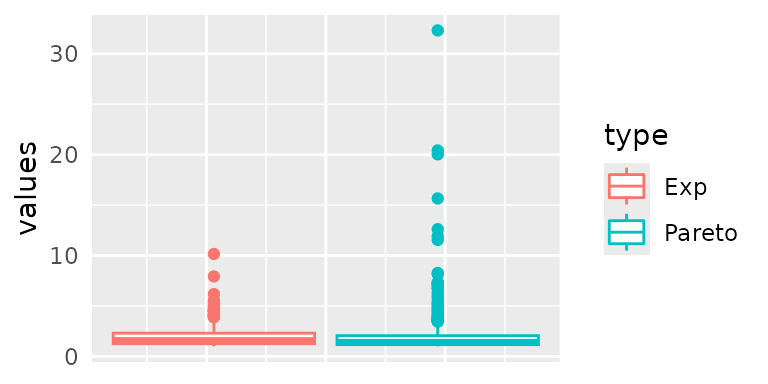
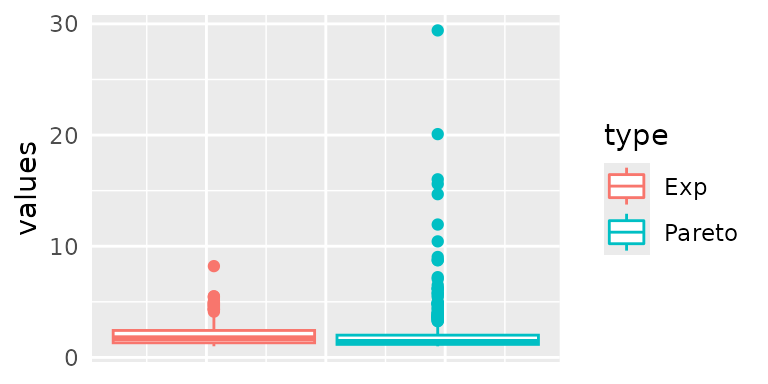
Deploying to gh-pages from @ GBuritica/tsExtremes@cb913c2be7b2392963cf8164e4d514b625f0b740 🚀

diff --git a/articles/Example-Analysis.html b/articles/Example-Analysis.html
@@ -165,6 +165,7 @@ consider the following samples, and its respective boxplot.</p>
 <div class="sourceCode" id="cb1"><pre class="downlit sourceCode r">
 <code class="sourceCode R"><span><span class="kw"><a href="https://rdrr.io/r/base/library.html" class="external-link">library</a></span><span class="op">(</span><span class="va"><a href="https://www.stat.auckland.ac.nz/~yee/VGAM/" class="external-link">VGAM</a></span><span class="op">)</span></span>
 <span><span class="kw"><a href="https://rdrr.io/r/base/library.html" class="external-link">library</a></span><span class="op">(</span><span class="va"><a href="https://ggplot2.tidyverse.org" class="external-link">ggplot2</a></span><span class="op">)</span></span>
+<span><span class="fu"><a href="https://rdrr.io/r/base/Random.html" class="external-link">set.seed</a></span><span class="op">(</span><span class="fl">123</span><span class="op">)</span></span>
 <span><span class="va">n</span>     <span class="op">&lt;-</span> <span class="fl">500</span></span>
 <span><span class="va">alpha</span> <span class="op">&lt;-</span> <span class="fl">2</span></span>
 <span><span class="va">sample_exponential</span> <span class="op">&lt;-</span> <span class="fl">1</span> <span class="op">+</span> <span class="fu"><a href="https://rdrr.io/r/stats/Exponential.html" class="external-link">rexp</a></span><span class="op">(</span><span class="va">n</span><span class="op">)</span></span>
@@ -194,6 +195,33 @@ we refer to <span class="citation">(Bingham, Goldie, and Teugels
 tail-index from data. We consider a sample of observations <span class="math inline">\(X_1, \dots, X_n\)</span> with the same
 distribution of <span class="math inline">\(X\)</span>, and not
 necessarily independent.</p>
+<div class="section level4">
+<h4 id="motivation">Motivation<a class="anchor" aria-label="anchor" href="#motivation"></a>
+</h4>
+<p>To motivate the Hill estimator, note that when <span class="math inline">\(P\)</span> follows the Pareto distribution with
+tail index <span class="math inline">\(\alpha\)</span>, then <span class="math inline">\(\mathbb{P}(Y &gt; x) = 1 -x^{-\alpha}\)</span>,
+and then straightforward calculations imply <span class="math display">\[E[\log(P)] = \frac{1}{\alpha}.\]</span> In all
+generality, when <span class="math inline">\(X\)</span> is regularly
+varying, then for all <span class="math inline">\(x &gt; 1\)</span>,
+<span class="math display">\[
+\lim_{t \to \infty}\mathbb{P}(X/t &gt; x \mid X &gt; t) = \lim_{t \to
+\infty} {\overline F(tx)}/{\overline F(t) } = x^{-\alpha}.
+\]</span> where the last equality follows by the definition of regularly
+varying random variables. We can interpret this equation to say that the
+renormalized sample exceeded amount follows asymptotically a Pareto
+distribution. In this sense <span class="math display">\[\mathbb{E}[
+\log(X/t) | X &gt; t] \approx \frac{1}{\alpha}, \qquad t \to \infty.
+\]</span> Finally, replacing the right-hand side in the previous
+relation with its empirical counterpart yields <span class="math display">\[
+\frac{ \sum_{j=1}^n \log(X_j/t)1(X_j &gt; t)}{\sum_{j=1}^n 1(X_j&gt; t)}
+\approx \frac{1}{\alpha}, \qquad t \to \infty.
+\]</span></p>
+<p>Here the value of <span class="math inline">\(t\)</span> is a high
+threshold of the sample. In our case, we replace <span class="math inline">\(t\)</span> by an order statistic of the sample. If
+<span class="math inline">\(X_{(1)} \geq X_{(2)} \geq \cdots \geq
+X_{(n)}\)</span> are the sorted sample values, then we see that letting
+<span class="math inline">\(t = X_{(k^\prime+1)}\)</span> is the
+previous expression we obtain the Hill estimator</p>
 <p class="comment">
 <strong>Hill estimator.</strong> The Hill estimator is a general
 procedure to estimate the tail-index of <span class="math inline">\(X\)</span>, and it is given by <span class="math display">\[
@@ -206,37 +234,83 @@ Hill estimator.
 </p>
 <p>
 </p>
-<p>When the temporal dependence is not very strong, think for example in
-a stationary AR(1) series: <span class="math inline">\((X_t = \rho
-X_{t-1} + Z_{t})\)</span>, for <span class="math inline">\(|\rho| &lt;
+<p>We see from the previous expression that the assumption of regular
+variation means that the top records from the sample: <span class="math inline">\(X_{(1)} \geq \cdots \geq X_{(k^\prime)}\)</span>,
+resemble a sample from a Pareto distribution with tail-index <span class="math inline">\(\alpha &gt; 0\)</span>.</p>
+<p>Finally, the Hill estimator yields consistent estimates of the
+tail-index of <span class="math inline">\(X\)</span> even when the
+temporal dependence is not very strong, think for example in a
+stationary AR(1) series: <span class="math inline">\(X_t = \rho X_{t-1}
++ Z_{t}\)</span>, for <span class="math inline">\(|\rho| &lt;
 1\)</span>, and <span class="math inline">\((\mathbb{Z})\)</span> a
-series of iid regularly varying innovations, the Hill estimator yields
-consistent estimates of the tail-index of <span class="math inline">\(X\)</span>. We refer to Chapter 4 in <span class="citation">(Beirlant et al. 2004)</span> for a detailed treatment
-of tail-index inference.</p>
-<p>To motivate the Hill estimator, note that if <span class="math inline">\(X\)</span> follows the Pareto distribution with
-tail index <span class="math inline">\(\alpha\)</span>, then <span class="math inline">\(F(t) = 1 -x^{-\alpha}\)</span>, and then
-straightforward calculations imply <span class="math inline">\(E[\log(X)] = 1/\alpha\)</span>. In all generality,
-the renormalized largest records of the sample follow asymptotically a
-Pareto distribution by means of the Pickands-Balkdema de Haan Theorem
-also called ‘Peaks over Thresholds’ Theorem. This means, that if we
-restrict our sample to the <span class="math inline">\(k^\prime\)</span>
-largest records, then we see how the Hill estimator is a good candidate
-to estimate tail-index. We refer in all generality to Chapter 4 in <span class="citation">(Beirlant et al. 2004)</span>.</p>
+series of iid regularly varying innovations. We refer to Chapter 4 in
+<span class="citation">(Beirlant et al. 2004)</span> for a detailed
+treatment of tail-index inference.</p>
+</div>
+<div class="section level4">
+<h4 id="bias-variance-trade-off">Bias-Variance trade-off<a class="anchor" aria-label="anchor" href="#bias-variance-trade-off"></a>
+</h4>
+<p>The Hill estimator requires the tuning parameter <span class="math inline">\(k^\prime\)</span> in its implementation, and this
+choice highlights the classical bias-variance trade-off in extreme value
+statistics. Larger values of <span class="math inline">\(k^\prime\)</span> mean that when we average a
+larger number of sample records to compute the Hill estimate, which
+typically translates in a variance reduction for this statistical
+procedure. Nevertheless, to obtain unbiased estimates of the tail-index
+it is important that our top records: <span class="math inline">\(X_{(1)} \geq \cdots \geq X_{(k^\prime)}\)</span>
+nicely resemble a sample from a Pareto distribution with tail-index
+<span class="math inline">\(\alpha\)</span>. However, in all generality
+this is only granted in many cases if <span class="math inline">\(k^\prime = k_n^\prime\)</span> is rather small
+compared to <span class="math inline">\(n\)</span>, which means we can
+only focus on the top records.</p>
+<p><strong>qq-plot</strong> : To illustrate the bias-variance trade-off,
+let’s take again <span class="math inline">\(P\)</span> to be a Pareto
+distribution. Moreover notice that for all <span class="math inline">\(p
+\in (0,1)\)</span>, the quantiles of <span class="math inline">\(\log
+P\)</span> can be computed noticing <span class="math inline">\(\mathbb{P}(\log(P) &gt;  - \log(p)/\alpha ) =
+\mathbb{P}(P &gt; p^{-1/\alpha} ) = p.\)</span> This equation
+demonstrates that the qq-plot of sample from <span class="math inline">\(\log(P)\)</span> is given by the points <span class="math display">\[ (\log(P_{(k)}),-\log(1-k/n)/\alpha),\]</span>
+where again recall the notation <span class="math inline">\(P_{(1)} \geq
+\cdots P_{(n)}\)</span>. Instead, for a general regularly varying
+variables <span class="math inline">\(X\)</span>, when we plot <span class="math inline">\((\log(X_{(k)}),-\log(1-k/n)/\alpha))\)</span>,
+then only the highest records of the sample should align with the
+quantiles of <span class="math inline">\(\log P\)</span>.</p>
+<div class="sourceCode" id="cb2"><pre class="downlit sourceCode r">
+<code class="sourceCode R"><span><span class="kw"><a href="https://rdrr.io/r/base/library.html" class="external-link">library</a></span><span class="op">(</span><span class="va"><a href="https://rpkgs.datanovia.com/ggpubr/" class="external-link">ggpubr</a></span><span class="op">)</span></span>
+<span><span class="va">sample_frechet</span>     <span class="op">&lt;-</span> <span class="fu"><a href="https://rdrr.io/pkg/VGAM/man/frechetUC.html" class="external-link">rfrechet</a></span><span class="op">(</span><span class="va">n</span>, shape <span class="op">=</span> <span class="va">alpha</span><span class="op">)</span></span>
+<span><span class="va">sample_pareto</span>      <span class="op">&lt;-</span> <span class="fu">VGAM</span><span class="fu">::</span><span class="fu"><a href="https://rdrr.io/pkg/VGAM/man/ParetoUC.html" class="external-link">rpareto</a></span><span class="op">(</span><span class="va">n</span>, shape<span class="op">=</span><span class="va">alpha</span><span class="op">)</span></span>
+<span><span class="va">df</span> <span class="op">&lt;-</span> <span class="fu"><a href="https://rdrr.io/r/base/data.frame.html" class="external-link">data.frame</a></span><span class="op">(</span><span class="st">'log_frechet'</span> <span class="op">=</span> <span class="fu"><a href="https://rdrr.io/r/base/Log.html" class="external-link">log</a></span><span class="op">(</span><span class="fu"><a href="https://rdrr.io/r/base/sort.html" class="external-link">sort</a></span><span class="op">(</span><span class="va">sample_frechet</span><span class="op">)</span><span class="op">)</span>, </span>
+<span>                  <span class="st">'log_pareto'</span> <span class="op">=</span> <span class="fu"><a href="https://rdrr.io/r/base/Log.html" class="external-link">log</a></span><span class="op">(</span><span class="fu"><a href="https://rdrr.io/r/base/sort.html" class="external-link">sort</a></span><span class="op">(</span><span class="va">sample_pareto</span><span class="op">)</span><span class="op">)</span><span class="op">)</span></span>
+<span><span class="va">g1</span> <span class="op">&lt;-</span> <span class="fu"><a href="https://ggplot2.tidyverse.org/reference/ggplot.html" class="external-link">ggplot</a></span><span class="op">(</span><span class="va">df</span><span class="op">)</span> <span class="op">+</span> <span class="fu"><a href="https://ggplot2.tidyverse.org/reference/geom_point.html" class="external-link">geom_point</a></span><span class="op">(</span><span class="fu"><a href="https://ggplot2.tidyverse.org/reference/aes.html" class="external-link">aes</a></span><span class="op">(</span> y <span class="op">=</span> <span class="op">-</span><span class="fu"><a href="https://rdrr.io/r/base/Log.html" class="external-link">log</a></span><span class="op">(</span><span class="fl">1</span><span class="op">-</span><span class="fl">1</span><span class="op">:</span><span class="va">n</span><span class="op">/</span><span class="va">n</span><span class="op">)</span><span class="op">/</span><span class="va">alpha</span>, x <span class="op">=</span> <span class="va">log_pareto</span> <span class="op">)</span><span class="op">)</span> <span class="op">+</span> <span class="fu"><a href="https://ggplot2.tidyverse.org/reference/geom_abline.html" class="external-link">geom_abline</a></span><span class="op">(</span>slope<span class="op">=</span><span class="fl">1</span><span class="op">)</span></span>
+<span><span class="va">g2</span> <span class="op">&lt;-</span> <span class="fu"><a href="https://ggplot2.tidyverse.org/reference/ggplot.html" class="external-link">ggplot</a></span><span class="op">(</span><span class="va">df</span><span class="op">)</span> <span class="op">+</span> <span class="fu"><a href="https://ggplot2.tidyverse.org/reference/geom_point.html" class="external-link">geom_point</a></span><span class="op">(</span><span class="fu"><a href="https://ggplot2.tidyverse.org/reference/aes.html" class="external-link">aes</a></span><span class="op">(</span> y <span class="op">=</span> <span class="op">-</span><span class="fu"><a href="https://rdrr.io/r/base/Log.html" class="external-link">log</a></span><span class="op">(</span><span class="fl">1</span><span class="op">-</span><span class="fl">1</span><span class="op">:</span><span class="va">n</span><span class="op">/</span><span class="va">n</span><span class="op">)</span><span class="op">/</span><span class="va">alpha</span>, x <span class="op">=</span> <span class="va">log_frechet</span> <span class="op">)</span><span class="op">)</span> <span class="op">+</span> <span class="fu"><a href="https://ggplot2.tidyverse.org/reference/geom_abline.html" class="external-link">geom_abline</a></span><span class="op">(</span>slope<span class="op">=</span><span class="fl">1</span><span class="op">)</span></span>
+<span><span class="fu"><a href="https://rpkgs.datanovia.com/ggpubr/reference/ggarrange.html" class="external-link">ggarrange</a></span><span class="op">(</span><span class="va">g1</span>,<span class="va">g2</span><span class="op">)</span></span></code></pre></div>
+<p><img src="Example-Analysis_files/figure-html/qqplot-1.png" width="576" style="display: block; margin: auto;"></p>
+<p>Finally, as expected we can see from the plot above that when <span class="math inline">\(X\)</span> follows the Fréchet distributions, then
+only the <span class="math inline">\(k^\prime\)</span>-largest sample
+records can be accurately modeled using a Pareto distribution. From this
+plot we take that in this case we need to choose <span class="math inline">\(k^\prime = k_n^\prime\)</span> from the Hill
+estimator rather small compared to <span class="math inline">\(n\)</span> to satisfactorily describe the tail
+properties of the variable <span class="math inline">\(X\)</span>.</p>
+</div>
 </div>
 <div class="section level3">
 <h3 id="tsextremes-package-implementation">tsExtremes package implementation<a class="anchor" aria-label="anchor" href="#tsextremes-package-implementation"></a>
 </h3>
-<p>To implement the Hill estimator with the tsExtremes package, we start
-by loading the <span class="math inline">\(\texttt{tsExtremes}\)</span>
-package.</p>
-<div class="sourceCode" id="cb2"><pre class="downlit sourceCode r">
+<p>We are now ready to use the tsExtremes package to compute Hill
+estimates of the tail-index. We start by loading the <span class="math inline">\(\texttt{tsExtremes}\)</span> package.</p>
+<div class="sourceCode" id="cb3"><pre class="downlit sourceCode r">
 <code class="sourceCode R"><span><span class="kw"><a href="https://rdrr.io/r/base/library.html" class="external-link">library</a></span><span class="op">(</span><span class="va"><a href="https://github.com/GBuritica/tsExtremes" class="external-link">tsExtremes</a></span><span class="op">)</span></span></code></pre></div>
+<div class="sourceCode" id="cb4"><pre class="downlit sourceCode r">
+<code class="sourceCode R"><span><span class="va">h</span> <span class="op">&lt;-</span> <span class="fu"><a href="../reference/hillestimator.html">hillestimator</a></span><span class="op">(</span><span class="va">sample_pareto</span>, plot<span class="op">=</span><span class="cn">T</span> , k1 <span class="op">=</span> <span class="fl">1</span><span class="op">:</span><span class="va">n</span> <span class="op">)</span></span></code></pre></div>
+<p><img src="Example-Analysis_files/figure-html/unbiased-hill-1.png" width="864" style="display: block; margin: auto;"></p>
+<div class="sourceCode" id="cb5"><pre class="downlit sourceCode r">
+<code class="sourceCode R"><span><span class="va">h</span> <span class="op">&lt;-</span> <span class="fu"><a href="../reference/hillestimator.html">hillestimator</a></span><span class="op">(</span><span class="va">sample_frechet</span>, plot<span class="op">=</span><span class="cn">T</span> , k1 <span class="op">=</span> <span class="fl">1</span><span class="op">:</span><span class="va">n</span> <span class="op">)</span></span></code></pre></div>
+<p><img src="Example-Analysis_files/figure-html/unbiased-hill-2.png" width="864" style="display: block; margin: auto;"></p>
 <p>The <span class="math inline">\(\texttt{tsExtremes}\)</span> package
 includes the rainfall dataset, containing daily rainfall records from
 nine different weather stations in France. The data and season of each
 record is available. To compute the tail-index and produce a Hill Plot
 of summer rainfall in Brest we use the function below.</p>
-<div class="sourceCode" id="cb3"><pre class="downlit sourceCode r">
+<div class="sourceCode" id="cb6"><pre class="downlit sourceCode r">
 <code class="sourceCode R"><span><span class="va">h</span> <span class="op">&lt;-</span> <span class="fu"><a href="../reference/alphaestimator.html">alphaestimator</a></span><span class="op">(</span><span class="va">rainfall</span><span class="op">$</span><span class="va">BREST</span><span class="op">[</span><span class="va">rainfall</span><span class="op">$</span><span class="va">SEASON</span><span class="op">==</span><span class="st">"SPRING"</span><span class="op">]</span>, plot<span class="op">=</span><span class="cn">F</span> , R0 <span class="op">=</span> <span class="fl">100</span>,  hill<span class="op">=</span><span class="cn">T</span> ,  k1 <span class="op">=</span> <span class="fl">300</span> <span class="op">)</span></span></code></pre></div>
 </div>
 <div class="section level2 unnumbered">

diff --git a/reference/hillestimator.html b/reference/hillestimator.html
@@ -67,7 +67,7 @@
 
     <div class="section level2">
     <h2 id="ref-usage">Usage<a class="anchor" aria-label="anchor" href="#ref-usage"></a></h2>
-    <div class="sourceCode"><pre class="sourceCode r"><code><span><span class="fu">hillestimator</span><span class="op">(</span><span class="va">path</span>, k0 <span class="op">=</span> <span class="cn">NULL</span>, plot <span class="op">=</span> <span class="cn">F</span><span class="op">)</span></span></code></pre></div>
+    <div class="sourceCode"><pre class="sourceCode r"><code><span><span class="fu">hillestimator</span><span class="op">(</span><span class="va">path</span>, k1 <span class="op">=</span> <span class="cn">NULL</span>, plot <span class="op">=</span> <span class="cn">F</span><span class="op">)</span></span></code></pre></div>
     </div>
 
     <div class="section level2">
@@ -76,9 +76,9 @@
 <dd><p>(vector of univariate observations)</p></dd>
 
 
-<dt>k0</dt>
+<dt>k1</dt>
 <dd><p>(vector of order statistics to compute Hill estimates).
-It uses k0 = n*0.05 otherwise</p></dd>
+It uses k1 = n*0.05 otherwise</p></dd>
 
 
 <dt>plot</dt>
